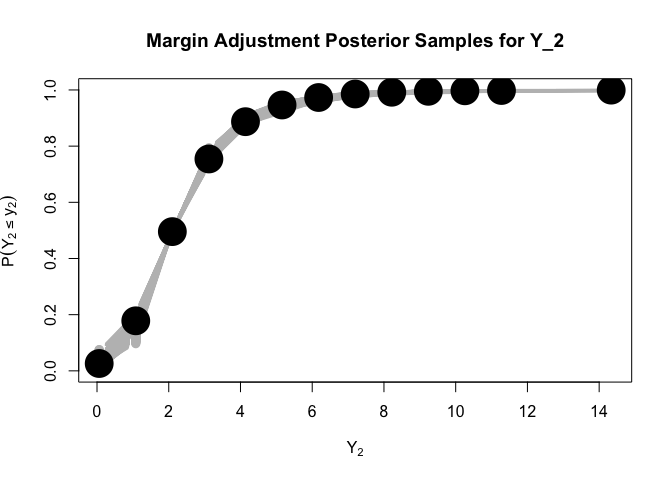
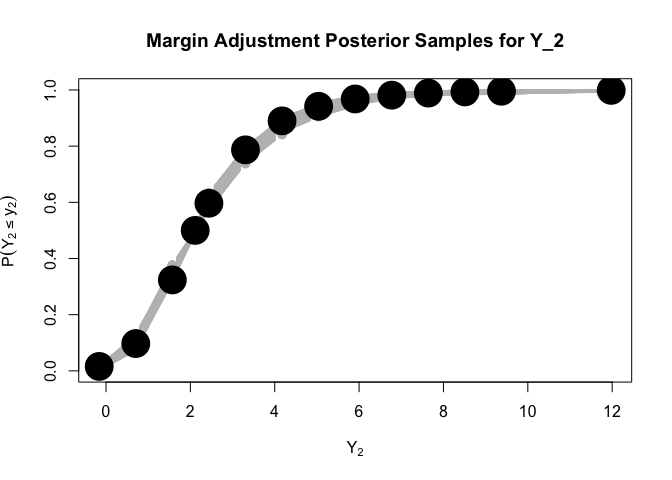
read me

diff --git a/README.md b/README.md
@@ -53,7 +53,7 @@ $\boldsymbol Y_{ij}$ for $R_{ij}>0$.
   print("Missingness in Each Y_j:")
 #> [1] "Missingness in Each Y_j:"
   print(colMeans(R))
-#> [1] 0.498 0.487 0.490 0.499 0.514
+#> [1] 0.480 0.488 0.502 0.523 0.503
 
   # Now we'll create the study variables. Here we use gamma, t, and beta marginals 
   
@@ -90,27 +90,27 @@ $\boldsymbol Y_{ij}$ for $R_{ij}>0$.
       print("Summary of (Y^obs, R)")
 #> [1] "Summary of (Y^obs, R)"
       print(summary(Y_obs))
-#>       Y_j              Y_j              Y_j              Y_j        
-#>  Min.   :0.0051   Min.   :-1.363   Min.   :0.0002   Min.   :0.0006  
-#>  1st Qu.:0.5128   1st Qu.: 1.216   1st Qu.:0.0902   1st Qu.:0.2171  
-#>  Median :1.0726   Median : 1.844   Median :0.2125   Median :0.5486  
-#>  Mean   :1.3316   Mean   : 2.093   Mean   :0.2752   Mean   :0.7892  
-#>  3rd Qu.:1.8427   3rd Qu.: 2.747   3rd Qu.:0.4256   3rd Qu.:1.0615  
-#>  Max.   :7.7132   Max.   :11.221   Max.   :0.9487   Max.   :5.9829  
-#>  NA's   :498      NA's   :487      NA's   :490      NA's   :499     
-#>       Y_j                V6              V7              V8      
-#>  Min.   :-0.3248   Min.   :0.000   Min.   :0.000   Min.   :0.00  
-#>  1st Qu.: 1.6357   1st Qu.:0.000   1st Qu.:0.000   1st Qu.:0.00  
-#>  Median : 2.4425   Median :0.000   Median :0.000   Median :0.00  
-#>  Mean   : 2.6864   Mean   :0.498   Mean   :0.487   Mean   :0.49  
-#>  3rd Qu.: 3.4200   3rd Qu.:1.000   3rd Qu.:1.000   3rd Qu.:1.00  
-#>  Max.   :13.1750   Max.   :1.000   Max.   :1.000   Max.   :1.00  
-#>  NA's   :514                                                     
+#>       Y_j              Y_j               Y_j              Y_j        
+#>  Min.   :0.0079   Min.   :-0.1615   Min.   :0.0212   Min.   :0.0115  
+#>  1st Qu.:0.3646   1st Qu.: 1.5094   1st Qu.:0.3247   1st Qu.:0.4324  
+#>  Median :0.8473   Median : 2.4269   Median :0.4636   Median :0.9408  
+#>  Mean   :1.1606   Mean   : 2.7174   Mean   :0.4783   Mean   :1.2047  
+#>  3rd Qu.:1.6578   3rd Qu.: 3.5592   3rd Qu.:0.6358   3rd Qu.:1.6486  
+#>  Max.   :7.1232   Max.   :11.9769   Max.   :0.9786   Max.   :8.5588  
+#>  NA's   :480      NA's   :488       NA's   :502      NA's   :523     
+#>       Y_j               V6             V7              V8       
+#>  Min.   :-1.477   Min.   :0.00   Min.   :0.000   Min.   :0.000  
+#>  1st Qu.: 1.282   1st Qu.:0.00   1st Qu.:0.000   1st Qu.:0.000  
+#>  Median : 2.013   Median :0.00   Median :0.000   Median :1.000  
+#>  Mean   : 2.312   Mean   :0.48   Mean   :0.488   Mean   :0.502  
+#>  3rd Qu.: 3.034   3rd Qu.:1.00   3rd Qu.:1.000   3rd Qu.:1.000  
+#>  Max.   :11.330   Max.   :1.00   Max.   :1.000   Max.   :1.000  
+#>  NA's   :503                                                    
 #>        V9             V10       
 #>  Min.   :0.000   Min.   :0.000  
 #>  1st Qu.:0.000   1st Qu.:0.000  
-#>  Median :0.000   Median :1.000  
-#>  Mean   :0.499   Mean   :0.514  
+#>  Median :1.000   Median :1.000  
+#>  Mean   :0.523   Mean   :0.503  
 #>  3rd Qu.:1.000   3rd Qu.:1.000  
 #>  Max.   :1.000   Max.   :1.000  
 #> 
@@ -144,7 +144,7 @@ information specified by the user:
   each $F_{j}$ which is beneficial for prediction and imputation
 - $\texttt{nImps}$: The number of completed data sets to create
 - $\texttt{nsamp}$: Number of iterations for the MCMC
-- $\textt{burn}$: Burn-in iterations for the MCMC
+- $\texttt{burn}$: Burn-in iterations for the MCMC
 
 ``` r
 YR = Y_obs
@@ -187,20 +187,20 @@ Now, we can look at the imputations
 
 ``` r
 summary(imps$YImpute[[2]])
-#>       Y_j                Y_j                Y_j                 Y_j          
-#>  Min.   :0.002831   Min.   :-0.01022   Min.   :-0.000099   Min.   :0.002214  
-#>  1st Qu.:0.295708   1st Qu.: 1.43534   1st Qu.: 0.132760   1st Qu.:0.299862  
-#>  Median :0.738075   Median : 2.16926   Median : 0.286881   Median :0.655321  
-#>  Mean   :1.082782   Mean   : 2.43558   Mean   : 0.328149   Mean   :1.065591  
-#>  3rd Qu.:1.559143   3rd Qu.: 3.01529   3rd Qu.: 0.486232   3rd Qu.:1.576546  
-#>  Max.   :5.177720   Max.   :14.33562   Max.   : 0.973536   Max.   :7.032586  
-#>       Y_j         
-#>  Min.   :-0.5853  
-#>  1st Qu.: 1.2763  
-#>  Median : 2.1431  
-#>  Mean   : 2.4003  
-#>  3rd Qu.: 3.2401  
-#>  Max.   :25.7541
+#>       Y_j               Y_j               Y_j                Y_j          
+#>  Min.   :0.00203   Min.   :-0.2066   Min.   :0.006133   Min.   :0.006689  
+#>  1st Qu.:0.32911   1st Qu.: 1.3523   1st Qu.:0.139324   1st Qu.:0.283416  
+#>  Median :0.73611   Median : 2.1826   Median :0.297226   Median :0.664704  
+#>  Mean   :1.05697   Mean   : 2.4525   Mean   :0.338001   Mean   :0.923339  
+#>  3rd Qu.:1.53086   3rd Qu.: 3.2999   3rd Qu.:0.496287   3rd Qu.:1.237131  
+#>  Max.   :7.59806   Max.   :11.9769   Max.   :0.978570   Max.   :8.558803  
+#>       Y_j        
+#>  Min.   :-1.477  
+#>  1st Qu.: 1.352  
+#>  Median : 2.087  
+#>  Mean   : 2.421  
+#>  3rd Qu.: 3.233  
+#>  Max.   :11.330
 
 plot(density(imps$YImpute[[2]][,3], bw = .1),col = "blue", lwd = 3, main = "Imputed vs. Truth vs. Observed")
 lines(density(rbeta(1000,1,2),bw = .1),lwd = 3, lty = 2)
